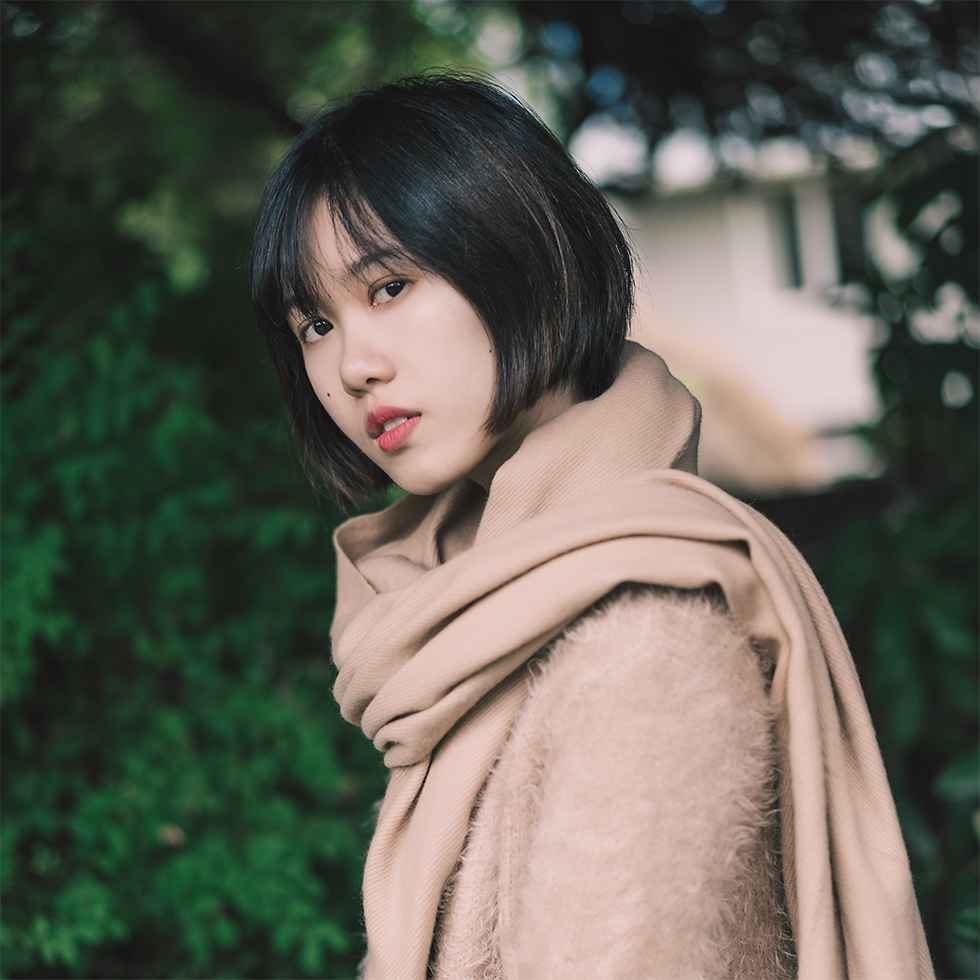
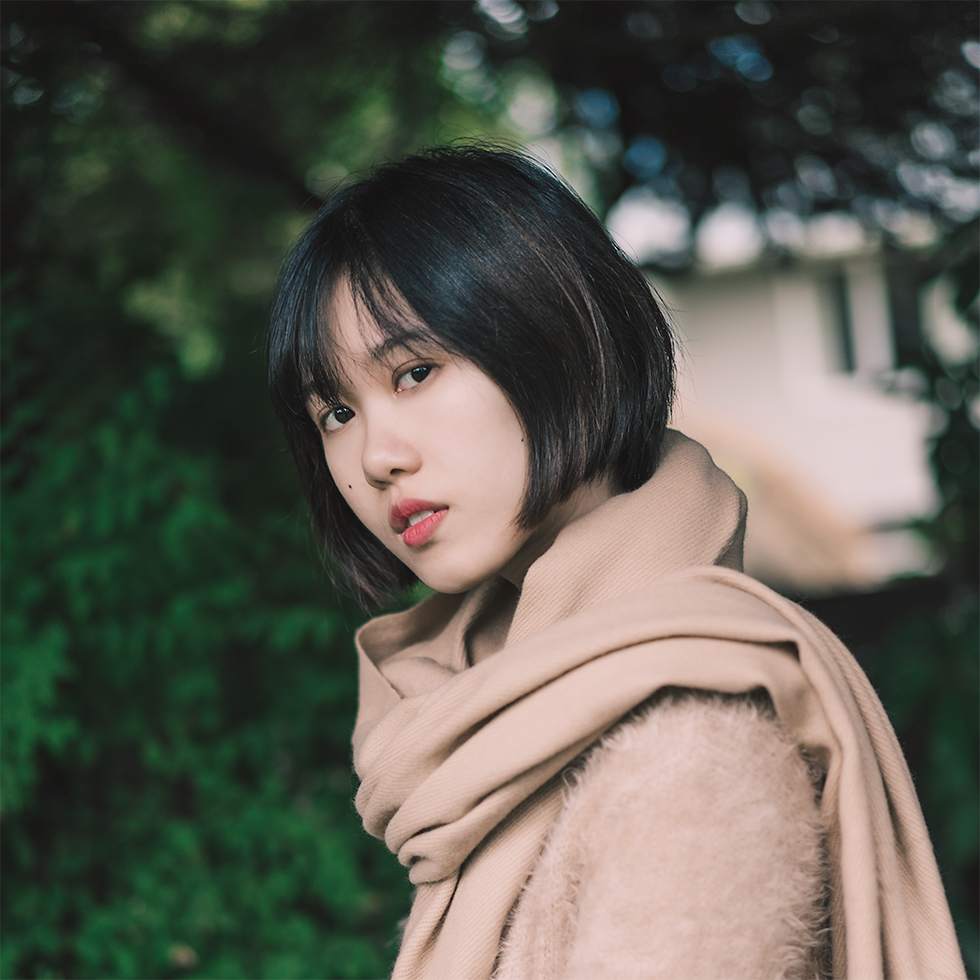
upload

diff --git a/T1-photo-profile.html b/T1-photo-profile.html
@@ -203,24 +203,24 @@
                   </div>
                 </div>
 
-              <!-- Deep Deep -->
+              <!-- Wave -->
               <div class="col-md-4 portfolio-item">
-                <div class="thumb" data-toggle="modal" data-target="#DeepDeep">
-                  <img src="Photo/Series/DeepDeep/cover.jpg" class="rounded">
+                <div class="thumb" data-toggle="modal" data-target="#Wave">
+                  <img src="Photo/Series/Wave/cover.jpg" class="rounded">
                   <div class="portfolio-hover">
                     <div class="portfolio-description">
-                      <h4>Deep Deep</h4>
+                      <h4>Wave</h4>
                       <div><p>Scholarly interest in creativity involves many definitions and concepts pertaining to a number of disciplines: &#8230;</p>
                       </div>
                     </div>
                   </div>
                 </div>
               </div>
-                <div class="modal fade style="z-index: auto;background: black"" id="DeepDeep" tabindex="-1" role="dialog" aria-labelledby="exampleModalLongTitle" aria-hidden="true">
+                <div class="modal fade style="z-index: auto;background: black"" id="Wave" tabindex="-1" role="dialog" aria-labelledby="exampleModalLongTitle" aria-hidden="true">
                   <div class="modal-dialog" role="document">
                     <div class="modal-content">
                       <div class="modal-header">
-                        <h5 class="modal-title" id="exampleModalLongTitle">Deep Deep</h5>
+                        <h5 class="modal-title" id="exampleModalLongTitle">Wave</h5>
                         <button type="button" class="close" data-dismiss="modal" aria-label="Close">
                             <span aria-hidden="true">&times;</span>
                         </button>
